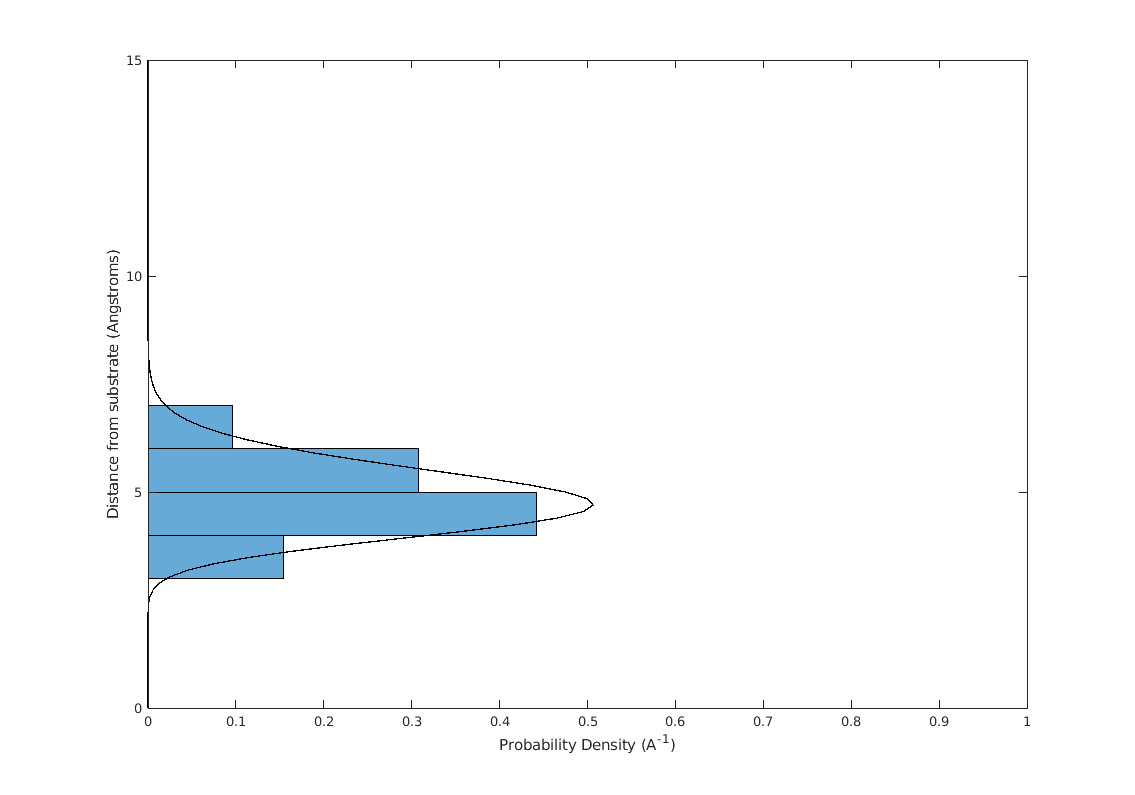
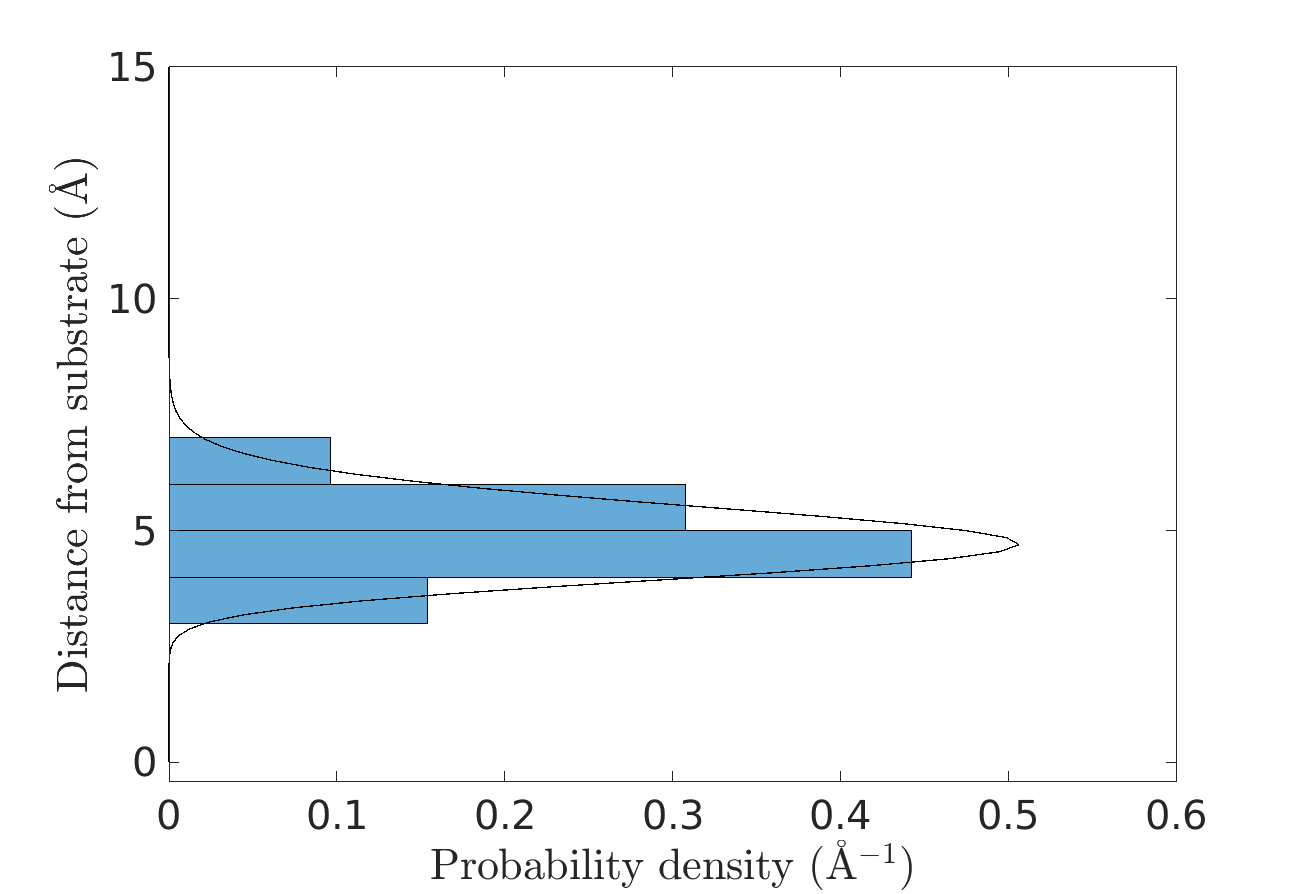
update

diff --git a/Ibeam_capillary/Freezing_Locations/plot_xy_fancy.py b/Ibeam_capillary/Freezing_Locations/plot_xy_fancy.py
@@ -1,0 +1,141 @@
+import matplotlib.pyplot as plt
+import numpy as np
+import matplotlib.patches as mpatches
+
+surface_file8 = '8layer_surface_data.txt'
+surface_data8 = np.loadtxt(surface_file8)
+avg_width8 = surface_data8[5]
+std_width8 = surface_data8[6]
+avg_center8 = surface_data8[7]
+
+freezing_file8 = '8layer_freezing_coordinates.dat'
+freezing_data8 = np.loadtxt(freezing_file8)
+freezing_data8 = np.transpose(freezing_data8)
+
+
+max_width8 = avg_width8 + std_width8
+min_width8 = avg_width8 - std_width8
+
+left_lower8 = avg_center8 - max_width8/2
+left_upper8 = avg_center8 - min_width8/2
+right_lower8 = avg_center8 + min_width8/2
+right_upper8 = avg_center8 + max_width8/2
+
+
+surface_file10 = '10layer_surface_data.txt'
+surface_data10 = np.loadtxt(surface_file10)
+avg_width10 = surface_data10[5]
+std_width10 = surface_data10[6]
+avg_center10 = surface_data10[7]
+
+freezing_file10 = '10layer_freezing_coordinates.dat'
+freezing_data10 = np.loadtxt(freezing_file10)
+freezing_data10 = np.transpose(freezing_data10)
+
+
+max_width10 = avg_width10 + std_width10
+min_width10 = avg_width10 - std_width10
+
+left_lower10 = avg_center10 - max_width10/2
+left_upper10 = avg_center10 - min_width10/2
+right_lower10 = avg_center10 + min_width10/2
+right_upper10 = avg_center10 + max_width10/2
+
+
+freezing_data = np.concatenate((freezing_data10, freezing_data8),axis=1)
+
+norm = plt.Normalize(min(freezing_data[0]), max(freezing_data[0]))
+scale = []
+for f in freezing_data[0]:
+	scale.append(f**10 * 500)
+print(scale)	
+
+
+# Create heatmap 2d array 5x5
+nrows = 1
+ncols = 12
+(x, x_step) = np.linspace(left_lower10, right_upper10, num=ncols+1, retstep=True)
+(y, y_step) = np.linspace(min(freezing_data[2]), max(freezing_data[2]), num=nrows+1, retstep=True)
+print(min(freezing_data[2]))
+print(max(freezing_data[2]))
+
+N_array = []
+y_min = min(freezing_data[2])
+y_max = max(freezing_data[2])
+for col in np.arange(ncols):
+	n_events = 0
+	x_min = x[col]
+	x_max = x[col+1]
+	for i in np.arange(len(freezing_data[0])):
+		if ((freezing_data[1][i]>=x_min) & (freezing_data[1][i]<x_max)):
+			n_events = n_events+1
+	N_array.append(n_events)
+
+print (N_array)
+
+half_prob_array = np.add(N_array[0:6], N_array[11:5:-1])
+print(half_prob_array)
+full_prob_array = np.concatenate([half_prob_array, np.flip(half_prob_array)])
+print(full_prob_array)
+
+prob_array=[]
+for N in full_prob_array:
+	prob = N/(len(freezing_data[0])*x_step)
+	prob_array.append(prob)
+	
+print (prob_array)
+x_array = []
+y_array = []
+
+for i in np.arange(len(x)-1):
+	x_array.append(x[i]+x_step/2)
+for i in np.arange(len(y)-1):
+	y_array.append(y[i]+y_step/2)
+
+
+fig, ax = plt.subplots(constrained_layout=True)
+sctr = plt.scatter(freezing_data[1], freezing_data[2], 1250.0, alpha=0.3, c=freezing_data[0], cmap='winter', norm=norm)
+cheat = plt.scatter(-20, -20, 100.0, color='blue', alpha=0.5, label='Freezing locations')
+plt.axvspan(left_lower10, left_upper8, alpha=0.5, color='red')
+plt.axvspan(right_lower8, right_upper10, alpha=0.5, color='red')
+plt.axvspan(0, left_lower10, alpha=0.5, color='tab:brown', hatch='xxx')
+plt.axvspan(right_upper10, 150, alpha=0.5, color='tab:brown', hatch='xxx')
+plt.ylim([-10,40])
+plt.xlim([0,150])
+
+bar = fig.colorbar(sctr,orientation='horizontal')
+bar.set_label('Freezing temperature')
+
+
+plt.xlabel('x position ($\AA$)')
+plt.ylabel('y position ($\AA$)')
+
+handles, labels = plt.gca().get_legend_handles_labels()
+patch = mpatches.Patch(facecolor='red', edgecolor='red', alpha=0.5, label='Air-water interface')  
+
+handles.extend([patch])
+plt.legend(loc='lower left', handles=handles)
+
+ax.set_aspect('equal')
+
+figure_size = plt.gcf().get_size_inches()
+plt.gcf().set_size_inches(1.25 * figure_size)
+
+plt.savefig('xy_fancy.png', dpi=1000)
+
+'''
+fig = plt.figure()
+sctr = plt.scatter(freezing_data[1], freezing_data[2], 1500.0, alpha=0.5, c=freezing_data[0], cmap='winter', norm=norm)
+#ax.hist(freezing_data[0], density=False, bins=10, histtype='step')
+plt.axvspan(left_lower10, left_upper8, alpha=0.5, color='red')
+plt.axvspan(right_lower8, right_upper10, alpha=0.5, color='red')
+
+bar = fig.colorbar(sctr)
+bar.set_label('Freezing temperature')
+
+plt.xlabel(' X-dimension of simulation box (Angstroms)')
+plt.ylabel(' Y-dimension of simulation box (Angstroms)')
+
+plt.savefig('xy_freezing_locations.png', dpi=1000)
+'''
+

diff --git a/Ibeam_capillary/Ten_Molecular_Layers/Wide_Ibeam/Freezing_Locations/Plots/plot_xz_locations.py b/Ibeam_capillary/Ten_Molecular_Layers/Wide_Ibeam/Freezing_Locations/Plots/plot_xz_locations.py
@@ -1,11 +1,28 @@
 import matplotlib.pyplot as plt
 import matplotlib.image as image
 import numpy as np
+import matplotlib.patches as mpatches
 
 backx = 2475
 dimx = 157.504
 backz = 786
 dimz = 39.85034643610105 + 10.062000000000001
+
+# Arc data
+anglesR = np.linspace(3*np.pi/4, 5*np.pi/4, 20)
+anglesL = np.linspace(-np.pi/4, np.pi/4, 20)
+
+r_10 = 21.24
+a_10 = 125.156
+b_10 = 24.8
+c_10 = 78.7
+x_10 = [109, 103.9, 109]
+y_10 = [38.6, 25, 11]
+
+arc_xR_10 = r_10 * np.cos(anglesR) + a_10
+arc_yR_10 = r_10 * np.sin(anglesR) + b_10
+arc_xL_10 = r_10 * np.cos(anglesL) + (c_10 -(a_10-c_10))
+arc_yL_10 = r_10 * np.sin(anglesL) + b_10
 
 graphite = image.imread('graphite_backdrop.png')
 print (graphite.shape)
@@ -37,17 +54,36 @@ for f in freezing_data[0]:
 print(scale)	
 
 
-fig = plt.figure()
+fig, ax = plt.subplots(constrained_layout=True)
 plt.imshow(graphite, extent=(0, dimx, 0, dimz))
+plt.axhspan(0, 10, alpha=0.5, color='tab:brown', hatch='xxx')
+plt.axhspan(40, 50, alpha=0.5, color='tab:brown', hatch='xxx')
 #plt.plot([109, 103.9, 109], [38.6, 25, 11], color = 'green')
-sctr = plt.scatter(freezing_data[1], freezing_data[3], 500.0, alpha=0.5, c=freezing_data[0], cmap='winter', norm=norm)
+sctr = plt.scatter(freezing_data[1], freezing_data[3], 1000.0, alpha=0.3, c=freezing_data[0], cmap='winter', norm=norm)
+cheat = plt.scatter(-20, -20, 100.0, color='blue', alpha=0.5, label='Freezing locations')
 #ax.hist(freezing_data[0], density=False, bins=10, histtype='step')
-plt.axvspan(left_lower, left_upper, alpha=0.5, color='red')
-plt.axvspan(right_lower, right_upper, alpha=0.5, color='red')
+#plt.axvspan(left_lower, left_upper, alpha=0.5, color='red')
+#plt.axvspan(right_lower, right_upper, alpha=0.5, color='red')
+plt.plot(arc_xR_10, arc_yR_10, color = 'red', alpha=0.5, lw = 10)
+plt.plot(arc_xL_10, arc_yL_10, color = 'red', alpha=0.5, lw = 10)
 
 bar = fig.colorbar(sctr,orientation='horizontal')
 bar.set_label('Freezing temperature')
-plt.xlabel(' X-dimension of simulation box (Angstroms)')
-plt.ylabel(' Z-dimension of simulation box (Angstroms)')
+plt.xlabel('x position ($\AA$)')
+plt.ylabel('z position ($\AA$)')
+plt.ylim([0,50])
+plt.xlim([0,150])
 
+
+handles, labels = plt.gca().get_legend_handles_labels()
+patch = mpatches.Patch(facecolor='red', edgecolor='red', alpha=0.5, label='Air-water interface')  
+
+handles.extend([patch])
+plt.legend(loc='lower left', handles=handles)
+
+ax.set_aspect('equal')
+
+
+figure_size = plt.gcf().get_size_inches()
+plt.gcf().set_size_inches(1.25 * figure_size)
 plt.savefig('xz_freezing_locations.png', dpi=1000)

diff --git a/Ibeam_capillary/Freezing_Locations/plot_xy_heatmap.py b/Ibeam_capillary/Freezing_Locations/plot_xy_heatmap.py
@@ -96,8 +96,10 @@ for i in np.arange(len(y)-1):
 fig, ax = plt.subplots(constrained_layout=True)
 heatmap = ax.pcolormesh(x_array, y, [prob_array,prob_array], shading='nearest', cmap='Blues', vmin=0, vmax=0.1)
 sctr = plt.scatter(freezing_data[1], freezing_data[2], marker='D', color='Black', label='Freezing locations')
-plt.axvspan(left_lower10, left_upper8, alpha=0.5, color='brown', hatch='xxx')
-plt.axvspan(right_lower8, right_upper10, alpha=0.5, color='brown', hatch='xxx')
+plt.axvspan(left_lower10, left_upper8, alpha=0.5, color='black', hatch='OOO')
+plt.axvspan(right_lower8, right_upper10, alpha=0.5, color='black', hatch='OOO')
+plt.axvspan(0, left_lower10, alpha=0.5, color='tab:brown', hatch='xxx')
+plt.axvspan(right_upper10, 150, alpha=0.5, color='tab:brown', hatch='xxx')
 plt.ylim([-10,40])
 plt.xlim([0,150])
 
@@ -108,7 +110,7 @@ plt.xlabel('x position ($\AA$)')
 plt.ylabel('y position ($\AA$)')
 
 handles, labels = plt.gca().get_legend_handles_labels()
-patch = mpatches.Patch(facecolor='brown', edgecolor='brown', alpha=0.5, hatch='xxx', label='Air-water interface')  
+patch = mpatches.Patch(facecolor='black', edgecolor='black', alpha=0.5, hatch='OOO', label='Air-water interface')  
 
 handles.extend([patch])
 plt.legend(loc='lower left', handles=handles)
@@ -118,7 +120,7 @@ ax.set_aspect('equal')
 figure_size = plt.gcf().get_size_inches()
 plt.gcf().set_size_inches(1.25 * figure_size)
 
-plt.savefig('xy_heatmap.png', dpi=1000)
+plt.savefig('xy_heatmap_new.png', dpi=1000)
 
 '''
 fig = plt.figure()

diff --git a/Ibeam_capillary/Freezing_Locations/plot_density_from_interface.m b/Ibeam_capillary/Freezing_Locations/plot_density_from_interface.m
@@ -60,8 +60,10 @@ xgrid = linspace(0,30,100);
 h = histogram(X_events,binEdges,'Normalization','pdf');
 hold on
 er = errorbar(binCenters,y,err, "o", 'LineWidth', 1, 'Color', 'k');
-xlabel('Distance from three phase contact line (Angstroms)');
-ylabel('Probability Density (A^-^1)');
+xlabel('Distance from three phase contact line (\AA)','interpreter','latex'); 
+ylabel('Probability Density (\AA$^{-1}$)','interpreter','latex');
+xlim([0 30]);
+ylim([0 0.1]);
 %pdfEst = pdf(pd,xgrid);
 %line(xgrid,pdfEst,'LineWidth', 2, 'Color', 'k')
 hold off

diff --git a/Ibeam_capillary/Freezing_Locations/plot_density_from_substrate.m b/Ibeam_capillary/Freezing_Locations/plot_density_from_substrate.m
@@ -59,8 +59,8 @@ r75 = icdf(pd,0.99)
 h1 = figure(1);
 xgrid = linspace(0,15,100);
 h = histogram(X_events,binEdges,'Normalization','pdf');
-xlabel('Distance from substrate (Angstroms)');
-ylabel('Probability Density (A^-^1)');
+xlabel('Distance from substrate (\AA)','interpreter','latex');
+ylabel('Probability Density (\AA$^{-1}$)','interpreter','latex');
 pdfEst = pdf(pd,xgrid);
 line(xgrid,pdfEst,'LineWidth', 2, 'Color', 'k')
 hold on
